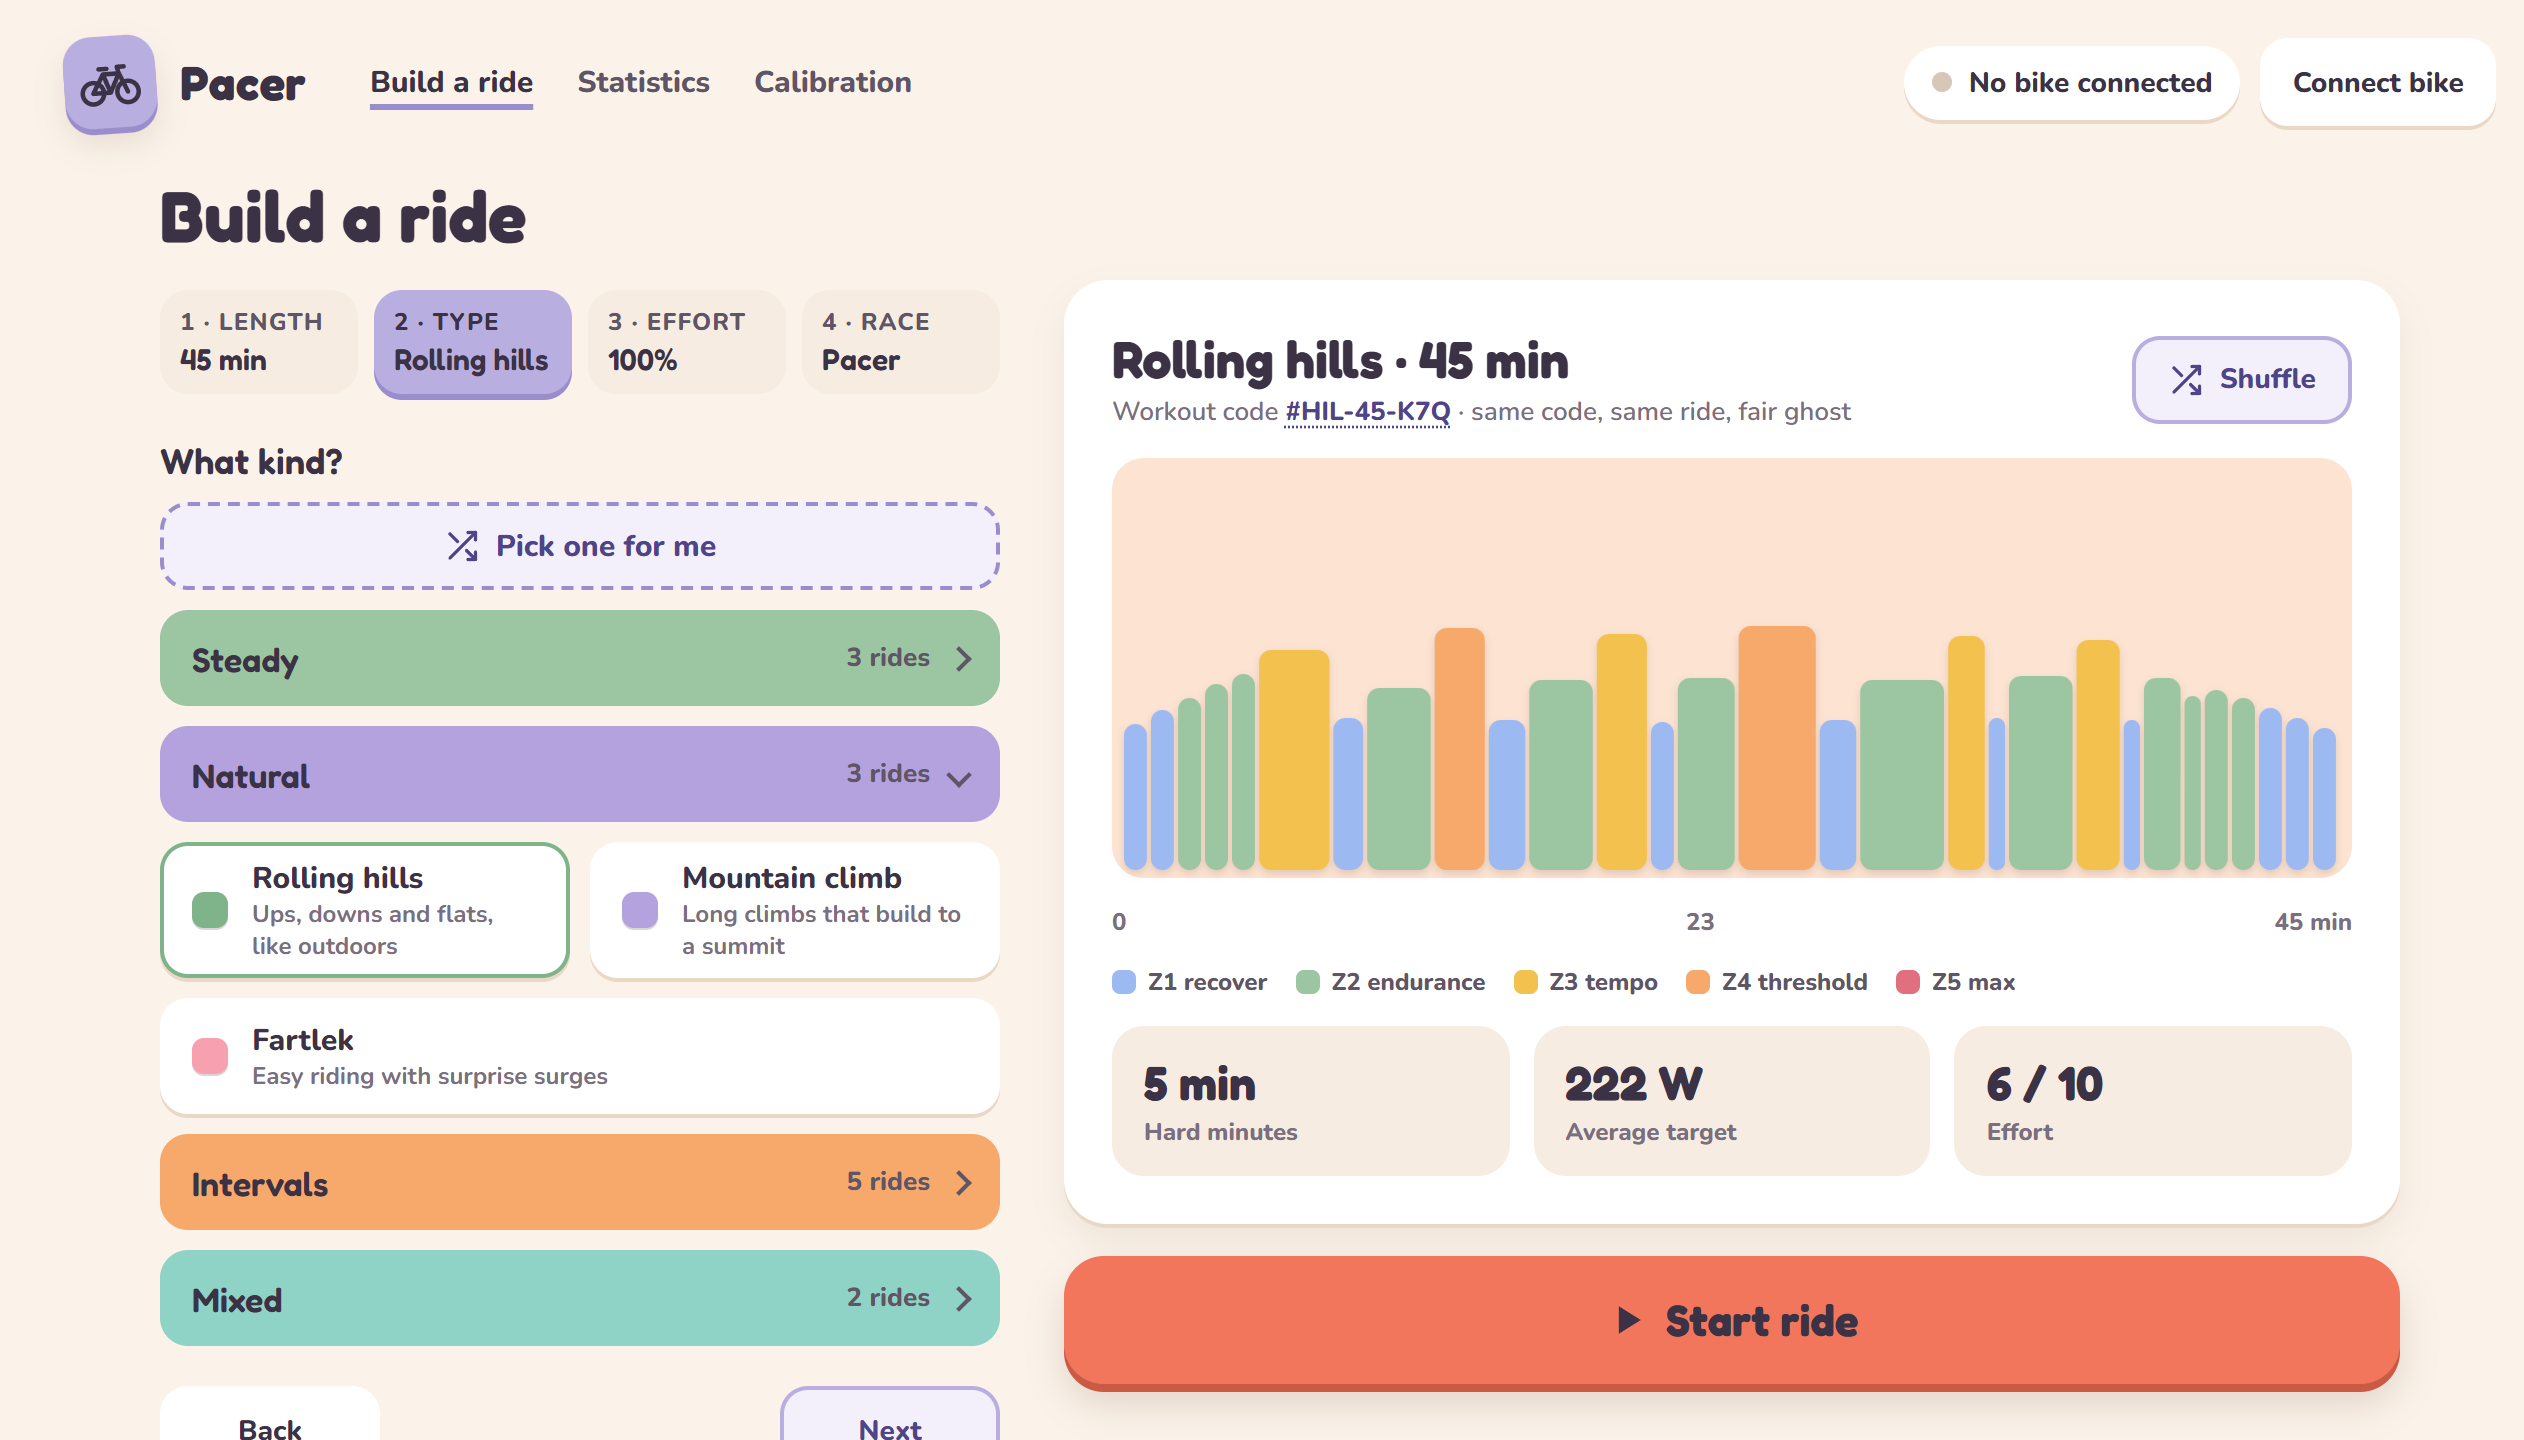
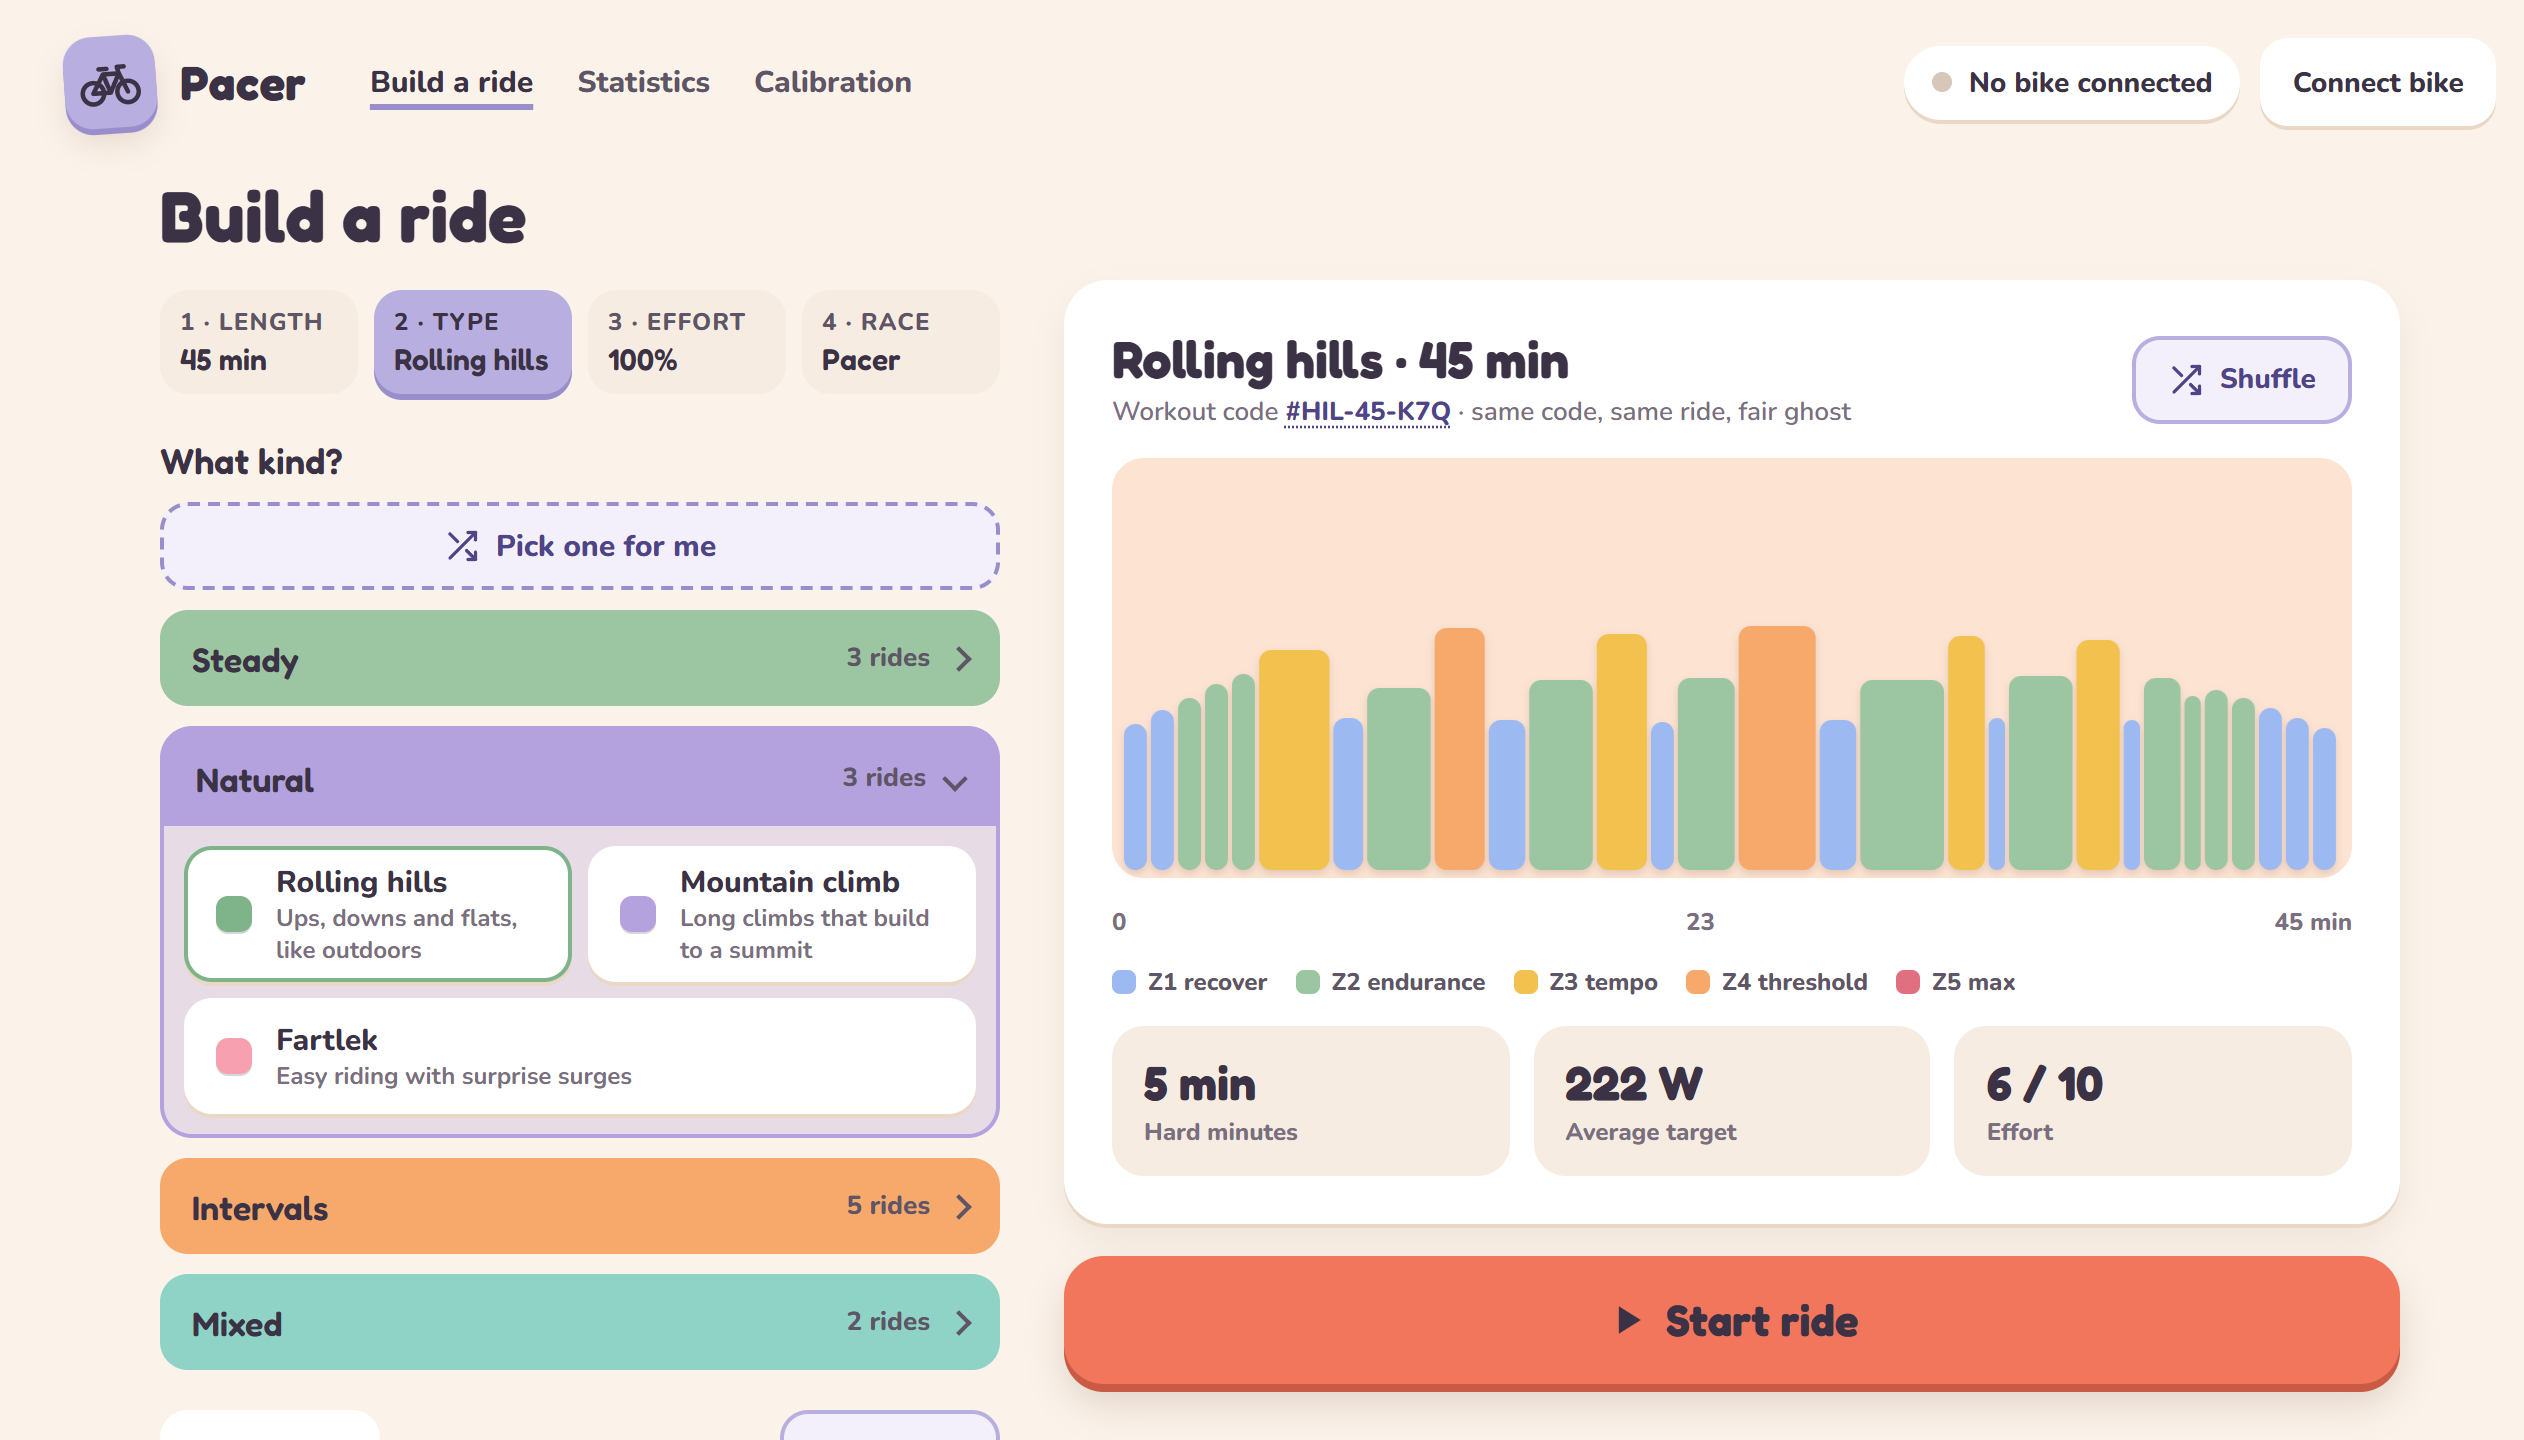
Shade an open ride group so its rides sit inside it
Claude-Session: https://claude.ai/code/session_019bcLdA25aR7snsdYMj9RXw

Changed region(s): [[0.0618, 0.5312, 0.4017, 1.0]]

diff --git a/src/ui/app.js b/src/ui/app.js
@@ -237,12 +237,13 @@ function renderSetup() {
       <span class="type-group-arrow" aria-hidden="true"></span>
     </button>`;
     if (!open) return head;
-    return head + list.map((t, i) => `
+    // An open group is one shaded box in the group's colour, holding its rides.
+    return `<div class="type-open" style="--group:${GROUP_COLORS[g] ?? ''}">${head}<div class="type-list">` + list.map((t, i) => `
     <button type="button" class="type${list.length % 2 && i === list.length - 1 ? ' wide' : ''}" data-type="${t.id}" aria-pressed="${t.id === state.type}"
       style="${t.id === state.type ? `border-color:${TYPE_COLORS[t.id]}` : ''}">
       <span class="sw" style="background:${TYPE_COLORS[t.id]}"></span>
       <span><span class="name">${esc(t.name)}</span><span class="hint">${esc(t.hint)}</span></span>
-    </button>`).join('');
+    </button>`).join('') + '</div></div>';
   }).join('');
 
   const choices = ghostChoices(w.code);

diff --git a/styles/app.css b/styles/app.css
@@ -163,6 +163,12 @@ main { padding: 0 32px 40px; }
   border: 2px dashed var(--lavender-deep); border-radius: 14px; background: var(--lavender-soft); color: var(--lavender-text);
   font-family: inherit; font-weight: 800; font-size: 15px; cursor: pointer;
 }
+.type-open {
+  grid-column: 1 / -1; border-radius: 16px; border: 2px solid var(--group);
+  background: color-mix(in srgb, var(--group) 28%, var(--cream));
+}
+.type-open .type-group { width: 100%; border-radius: 12px 12px 0 0; }
+.type-list { display: grid; grid-template-columns: repeat(2, minmax(0, 1fr)); gap: 8px; padding: 10px; }
 .type-group {
   grid-column: 1 / -1; display: flex; align-items: center; gap: 10px; min-height: 48px; padding: 0 16px;
   border: 0; border-radius: 14px; background: var(--sand); color: var(--ink); font-family: inherit; cursor: pointer; text-align: left;
